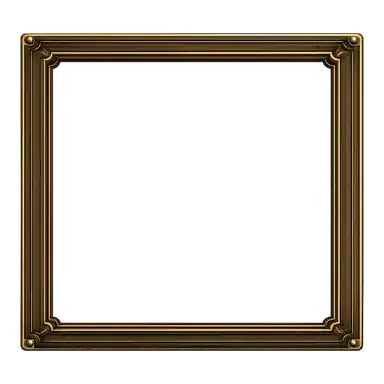
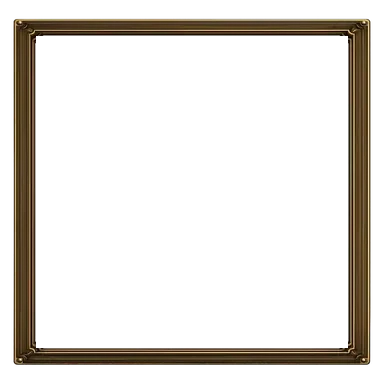
Refine premium Checkers board fit

diff --git a/public/checkers-premium.css b/public/checkers-premium.css
@@ -1,1 +1,1 @@
-:root{--checkers-brass:#d8aa53;--checkers-brass-bright:#ffd889;--checkers-ink:#080a0d;--checkers-panel:rgba(13,15,18,0.96);--checkers-panel-soft:rgba(22,24,28,0.9);--checkers-copy:#f2e8d3;--checkers-muted:#b8aa91;--checkers-red-accent:#d94b3f;--checkers-green-accent:#78c769}body.checkers-premium-active{background:radial-gradient(circle at 50% -20%,rgba(143,100,38,0.28),transparent 38rem),radial-gradient(circle at 18% 28%,rgba(105,29,24,0.18),transparent 32rem),linear-gradient(180deg,#111318 0%,#080a0d 62%,#050607 100%)}body.checkers-premium-active::before{opacity:0.18;background-image:linear-gradient(rgba(255,228,174,0.025) 1px,transparent 1px),linear-gradient(90deg,rgba(255,228,174,0.025) 1px,transparent 1px);background-size:36px 36px}.checkers-premium-active .shell{width:min(1480px,calc(100% - 24px));padding:22px 0 42px}.checkers-premium-active .hero{display:none}.checkers-premium-match.panel{padding:clamp(16px,2.4vw,28px);border-color:rgba(216,170,83,0.32);border-radius:18px;background:linear-gradient(135deg,rgba(31,26,20,0.72),transparent 32%),var(--checkers-panel);box-shadow:0 32px 90px rgba(0,0,0,0.52),inset 0 1px rgba(255,235,194,0.04);backdrop-filter:blur(18px)}.checkers-premium-match .match-header{padding-bottom:14px;border-bottom:1px solid rgba(216,170,83,0.22)}.checkers-premium-match .match-header h2,.checkers-board-title,.checkers-intel-card h3,.checkers-outcome-card h3{font-family:Georgia,"Times New Roman",serif;color:var(--checkers-copy);letter-spacing:-0.025em}.checkers-premium-match .section-label{color:var(--checkers-brass)}.checkers-premium-match .revision{border-color:rgba(216,170,83,0.34);color:var(--checkers-muted);background:rgba(8,10,13,0.66)}.checkers-premium-match .status{min-height:44px;margin:14px 0 18px;border:1px solid rgba(216,170,83,0.2);background:linear-gradient(90deg,rgba(216,170,83,0.13),transparent 72%),rgba(15,17,20,0.86);color:var(--checkers-copy)}.checkers-premium-match .game-layout{grid-template-columns:minmax(190px,230px) minmax(480px,1fr) minmax(210px,270px);gap:clamp(14px,2vw,24px);align-items:stretch}.checkers-premium-match .players{align-content:start;gap:12px}.checkers-premium-match .player-card{position:relative;display:grid;grid-template-columns:42px minmax(0,1fr);gap:12px;min-height:112px;padding:14px;overflow:hidden;border-color:rgba(216,170,83,0.26);border-radius:12px;background:linear-gradient(145deg,rgba(37,35,31,0.92),rgba(12,14,17,0.96));box-shadow:inset 0 1px rgba(255,239,202,0.035);transform:none}.checkers-premium-match .player-card::after{content:"";position:absolute;inset:0;pointer-events:none;border:1px solid transparent;border-radius:inherit}.checkers-premium-match .player-card.is-active{border-color:rgba(255,216,137,0.7);background:linear-gradient(145deg,rgba(61,47,28,0.86),rgba(14,16,19,0.97));box-shadow:0 14px 34px rgba(0,0,0,0.35),inset 0 0 0 1px rgba(255,216,137,0.14)}.checkers-premium-match #player-x.is-active::after{border-left:3px solid var(--checkers-green-accent)}.checkers-premium-match #player-o.is-active::after{border-left:3px solid var(--checkers-red-accent)}.checkers-premium-match .player-card small,.checkers-premium-match .match-meta dt{color:var(--checkers-muted)}.checkers-premium-match .player-card strong{color:var(--checkers-copy)}.checkers-premium-match .mark-badge.black,.checkers-premium-match .mark-badge.red{width:42px;height:42px;border:0;border-radius:50%;color:transparent;background:center / contain no-repeat;filter:drop-shadow(0 5px 6px rgba(0,0,0,0.46))}.checkers-premium-match .mark-badge.black{background-image:url("/assets/checkers/checkers-atlas.webp");background-size:400% 200%;background-position:33.333% 0%}.checkers-premium-match .mark-badge.red{background-image:url("/assets/checkers/checkers-atlas.webp");background-size:400% 200%;background-position:0% 0%}.checkers-premium-match .match-meta{border-top-color:rgba(216,170,83,0.2)}.checkers-premium-match .match-meta dd{color:#e6dcc8}.checkers-captured-summary{grid-column:1 / -1;display:grid;grid-template-columns:auto minmax(0,1fr) auto;align-items:center;gap:8px;margin-top:4px;padding-top:10px;border-top:1px solid rgba(216,170,83,0.18)}.checkers-captured-label{color:var(--checkers-muted);font-size:0.64rem;font-weight:800;letter-spacing:0.12em;text-transform:uppercase}.checkers-captured-pieces{display:flex;align-items:center;min-width:0}.checkers-captured-token{width:22px;height:22px;margin-left:-5px;border-radius:50%;background:center / contain no-repeat;filter:drop-shadow(0 3px 3px rgba(0,0,0,0.42))}.checkers-captured-token:first-child{margin-left:0}.checkers-captured-token-red{background-image:url("/assets/checkers/checkers-atlas.webp");background-size:400% 200%;background-position:0% 0%}.checkers-captured-token-black{background-image:url("/assets/checkers/checkers-atlas.webp");background-size:400% 200%;background-position:33.333% 0%}.checkers-captured-overflow,.checkers-captured-count{color:var(--checkers-brass-bright);font-size:0.72rem;font-style:normal}.checkers-board-heading{display:flex;justify-content:space-between;align-items:baseline;gap:16px;margin:0 2px 10px}.checkers-board-title{font-size:clamp(1.1rem,2vw,1.35rem);font-weight:700}.checkers-board-state{overflow:hidden;color:var(--checkers-muted);font-size:0.72rem;text-overflow:ellipsis;white-space:nowrap}.checkers-premium-match .board-wrap{width:min(100%,820px);padding:12px;border:1px solid rgba(216,170,83,0.22);border-radius:14px;background:radial-gradient(circle at 50% 30%,rgba(104,75,34,0.16),transparent 50%),rgba(7,9,11,0.96);box-shadow:0 24px 64px rgba(0,0,0,0.5)}.checkers-board-shell{position:relative;z-index:0;display:grid;place-items:center;width:100%;aspect-ratio:1;padding:8.25%;isolation:isolate}.checkers-board-shell::before{content:"";position:absolute;inset:0;z-index:3;pointer-events:none;background:url("/assets/checkers/board-frame.webp") center / 100% 100% no-repeat;filter:drop-shadow(0 14px 18px rgba(0,0,0,0.48))}.checkers-premium-match .board-checkers{position:relative;z-index:1;width:100%;border:0;border-radius:2px;background:url("/assets/checkers/board-surface.webp") center / 100% 100% no-repeat;box-shadow:inset 0 0 0 1px rgba(24,13,7,0.92),inset 0 0 22px rgba(0,0,0,0.28)}.checkers-premium-match .checkers-cell{padding:8%;overflow:visible;background:transparent;transition:filter 120ms ease,transform 120ms ease}.checkers-premium-match .checkers-cell.light-square,.checkers-premium-match .checkers-cell.dark-square,.checkers-premium-match .checkers-cell.legal-destination{background:transparent}.checkers-premium-match .checkers-cell.selectable-piece{box-shadow:inset 0 0 0 2px rgba(118,207,206,0.48)}.checkers-premium-match .checkers-cell.selectable-piece:hover,.checkers-premium-match .checkers-cell.selectable-piece:focus-visible{z-index:4;filter:brightness(1.08)}.checkers-premium-match .checkers-piece{position:relative;z-index:2;width:92%;border:0;color:transparent;background:center / contain no-repeat;box-shadow:none;filter:drop-shadow(0 6px 5px rgba(0,0,0,0.48))}.checkers-premium-match .piece-black{background-image:url("/assets/checkers/checkers-atlas.webp");background-size:400% 200%;background-position:33.333% 0%}.checkers-premium-match .piece-red{background-image:url("/assets/checkers/checkers-atlas.webp");background-size:400% 200%;background-position:0% 0%}.checkers-premium-match .piece-black.is-king{background-image:url("/assets/checkers/checkers-atlas.webp");background-size:400% 200%;background-position:100% 0%}.checkers-premium-match .piece-red.is-king{background-image:url("/assets/checkers/checkers-atlas.webp");background-size:400% 200%;background-position:66.667% 0%}.checkers-premium-match .checkers-piece.is-king{border:0;box-shadow:none}.checkers-premium-match .checkers-cell.selected-piece,.checkers-premium-match .checkers-cell.selected-path{box-shadow:none}.checkers-premium-match .checkers-cell.selected-piece::before{content:"";position:absolute;inset:1%;z-index:1;pointer-events:none;background-image:url("/assets/checkers/checkers-atlas.webp");background-size:400% 200%;background-position:0% 100%;background-repeat:no-repeat;animation:checkers-selection-pulse 1.25s ease-in-out infinite alternate}.checkers-premium-match .checkers-cell.legal-destination::after{content:"";position:absolute;inset:5%;z-index:1;width:auto;border-radius:0;background-image:url("/assets/checkers/checkers-atlas.webp");background-size:400% 200%;background-position:33.333% 100%;background-repeat:no-repeat;box-shadow:none;animation:checkers-destination-pulse 1.1s ease-in-out infinite alternate}.checkers-premium-match .checkers-cell.selected-path:not(.legal-destination)::after{content:"";position:absolute;inset:26%;z-index:4;pointer-events:none;border-radius:50%;background:radial-gradient(circle,#fff4c7 0 34%,#e5b95e 36% 55%,transparent 58%);filter:drop-shadow(0 0 6px rgba(255,216,137,0.7))}.checkers-premium-match .board-help{margin:8px 6px 0;color:var(--checkers-muted);text-align:center}.checkers-intel-rail{display:grid;align-content:start;gap:12px;min-width:0}.checkers-intel-rail[hidden]{display:none}.checkers-intel-card{position:relative;overflow:hidden;padding:14px;border:1px solid rgba(216,170,83,0.23);border-radius:12px;background:linear-gradient(145deg,rgba(38,34,28,0.72),rgba(12,14,17,0.96));box-shadow:inset 0 1px rgba(255,237,197,0.035)}.checkers-intel-card::before{content:"";position:absolute;inset:0;pointer-events:none;background:linear-gradient(120deg,rgba(255,216,137,0.04),transparent 32%)}.checkers-intel-kicker{margin:0 0 6px;color:var(--checkers-brass);font-size:0.64rem;font-weight:850;letter-spacing:0.15em}.checkers-intel-card h3{margin:0;font-size:1.08rem}.checkers-turn-copy{margin:10px 0 0;color:var(--checkers-copy);font-size:0.82rem;line-height:1.5}.checkers-count-grid{display:grid;grid-template-columns:1fr 1fr;gap:8px}.checkers-count-grid>div{display:grid;grid-template-columns:auto 1fr;align-items:center;gap:3px 7px;padding:10px;border:1px solid rgba(216,170,83,0.13);border-radius:9px;background:rgba(4,6,8,0.45)}.checkers-count-dot{grid-row:1 / 3;width:22px;height:22px;border-radius:50%;background:center / contain no-repeat}.checkers-count-dot.black{background-image:url("/assets/checkers/checkers-atlas.webp");background-size:400% 200%;background-position:33.333% 0%}.checkers-count-dot.red{background-image:url("/assets/checkers/checkers-atlas.webp");background-size:400% 200%;background-position:0% 0%}.checkers-count-grid small,.checkers-move-card span,.checkers-revision-card span{color:var(--checkers-muted);font-size:0.68rem;font-weight:750;letter-spacing:0.08em;text-transform:uppercase}.checkers-count-grid strong,.checkers-move-card strong,.checkers-revision-card strong{color:var(--checkers-copy);font-size:1.4rem}.checkers-count-grid em{grid-column:2;color:var(--checkers-muted);font-size:0.65rem;font-style:normal}.checkers-move-card,.checkers-revision-card{display:grid;gap:6px}.checkers-move-card small,.checkers-revision-card small{color:var(--checkers-muted);font-size:0.7rem;line-height:1.45}.checkers-route-swatch{display:flex;align-items:center;justify-content:space-between;width:100%;height:34px;padding:0 8%;margin-top:2px;opacity:0.28;transition:opacity 160ms ease,filter 160ms ease}.checkers-route-swatch i{width:9px;aspect-ratio:1;border-radius:50%;background:#f8e8b4;box-shadow:0 0 9px rgba(255,216,137,0.55)}.checkers-route-swatch i:nth-child(2),.checkers-route-swatch i:nth-child(4){transform:translateY(-5px)}.checkers-route-swatch i:nth-child(3){transform:translateY(-8px)}.checkers-intel-rail.has-route .checkers-route-swatch{opacity:0.9;filter:drop-shadow(0 0 8px rgba(255,216,137,0.35))}.checkers-premium-match .invite-panel,.checkers-premium-match .diagnostics{border-color:rgba(216,170,83,0.2);background:rgba(10,12,15,0.78)}.checkers-premium-match .actions{justify-content:flex-end}.checkers-premium-match .secondary-button,.checkers-outcome-actions button{border-color:rgba(216,170,83,0.38);color:var(--checkers-copy);background:linear-gradient(145deg,rgba(65,49,29,0.92),rgba(25,22,18,0.96))}.checkers-outcome-overlay{position:absolute;inset:12px;z-index:20;display:grid;place-items:center;padding:18px;border-radius:12px;background:rgba(5,7,9,0.78);backdrop-filter:blur(8px)}.checkers-outcome-overlay[hidden]{display:none}.checkers-outcome-card{width:min(92%,420px);padding:clamp(24px,4vw,36px);border:1px solid rgba(216,170,83,0.55);border-radius:16px;text-align:center;background:radial-gradient(circle at 50% 0%,rgba(216,170,83,0.2),transparent 70%),rgba(12,14,17,0.98);box-shadow:0 24px 70px rgba(0,0,0,0.62)}.checkers-outcome-kicker{margin:0 0 8px;color:var(--checkers-brass);font-size:0.66rem;font-weight:850;letter-spacing:0.16em}.checkers-outcome-card h3{margin:0;font-size:clamp(2rem,7vw,3.5rem)}.checkers-outcome-card>p:not(.checkers-outcome-kicker){margin:12px auto 0;color:var(--checkers-muted);line-height:1.5}.checkers-outcome-actions{display:grid;grid-template-columns:1fr 1fr;gap:10px;margin-top:22px}.checkers-outcome-actions button{min-height:46px;border-radius:10px;cursor:pointer;font-weight:800}@keyframes checkers-selection-pulse{from{opacity:0.72;transform:scale(0.96)}to{opacity:1;transform:scale(1.04)}}@keyframes checkers-destination-pulse{from{opacity:0.62;transform:scale(0.94)}to{opacity:1;transform:scale(1)}}@media (max-width:1120px){.checkers-premium-match .game-layout{grid-template-columns:minmax(180px,220px) minmax(0,1fr)}.checkers-intel-rail{grid-column:1 / -1;grid-template-columns:repeat(4,minmax(0,1fr))}}@media (max-width:760px){.checkers-premium-active .shell{width:min(100% - 12px,760px);padding-top:6px}.checkers-premium-match.panel{padding:10px;border-radius:12px}.checkers-premium-match .game-layout{grid-template-columns:1fr}.checkers-premium-match .players{grid-template-columns:1fr 1fr}.checkers-premium-match .match-meta{grid-column:1 / -1;display:none}.checkers-premium-match .player-card{min-height:96px;padding:10px}.checkers-captured-summary{grid-template-columns:auto 1fr}.checkers-captured-count{display:none}.checkers-premium-match .board-wrap{padding:6px}.checkers-board-heading{display:none}.checkers-intel-rail{grid-template-columns:1fr 1fr}.checkers-intel-identity,.checkers-revision-card{display:none}}@media (max-width:460px){.checkers-premium-match .match-header{align-items:flex-start}.checkers-premium-match .revision{display:none}.checkers-premium-match .status{font-size:0.78rem}.checkers-premium-match .player-card{grid-template-columns:34px minmax(0,1fr);gap:8px}.checkers-premium-match .mark-badge.black,.checkers-premium-match .mark-badge.red{width:34px;height:34px}.checkers-captured-summary{display:none}.checkers-board-shell{padding:8.5%}.checkers-intel-rail{grid-template-columns:1fr}.checkers-count-grid{grid-template-columns:1fr 1fr}.checkers-outcome-actions{grid-template-columns:1fr}}@media (prefers-reduced-motion:reduce){.checkers-premium-match .checkers-cell.selected-piece::before,.checkers-premium-match .checkers-cell.legal-destination::after{animation:none}}
+:root{--checkers-brass:#d8aa53;--checkers-brass-bright:#ffd889;--checkers-ink:#080a0d;--checkers-panel:rgba(13,15,18,0.96);--checkers-panel-soft:rgba(22,24,28,0.9);--checkers-copy:#f2e8d3;--checkers-muted:#b8aa91;--checkers-red-accent:#d94b3f;--checkers-green-accent:#78c769}body.checkers-premium-active{background:radial-gradient(circle at 50% -20%,rgba(143,100,38,0.28),transparent 38rem),radial-gradient(circle at 18% 28%,rgba(105,29,24,0.18),transparent 32rem),linear-gradient(180deg,#111318 0%,#080a0d 62%,#050607 100%)}body.checkers-premium-active::before{opacity:0.18;background-image:linear-gradient(rgba(255,228,174,0.025) 1px,transparent 1px),linear-gradient(90deg,rgba(255,228,174,0.025) 1px,transparent 1px);background-size:36px 36px}.checkers-premium-active .shell{width:min(1480px,calc(100% - 24px));padding:22px 0 42px}.checkers-premium-active .hero{display:none}.checkers-premium-match.panel{padding:clamp(16px,2.4vw,28px);border-color:rgba(216,170,83,0.32);border-radius:18px;background:linear-gradient(135deg,rgba(31,26,20,0.72),transparent 32%),var(--checkers-panel);box-shadow:0 32px 90px rgba(0,0,0,0.52),inset 0 1px rgba(255,235,194,0.04);backdrop-filter:blur(18px)}.checkers-premium-match .match-header{padding-bottom:14px;border-bottom:1px solid rgba(216,170,83,0.22)}.checkers-premium-match .match-header h2,.checkers-board-title,.checkers-intel-card h3,.checkers-outcome-card h3{font-family:Georgia,"Times New Roman",serif;color:var(--checkers-copy);letter-spacing:-0.025em}.checkers-premium-match .section-label{color:var(--checkers-brass)}.checkers-premium-match .revision{border-color:rgba(216,170,83,0.34);color:var(--checkers-muted);background:rgba(8,10,13,0.66)}.checkers-premium-match .status{min-height:44px;margin:14px 0 18px;border:1px solid rgba(216,170,83,0.2);background:linear-gradient(90deg,rgba(216,170,83,0.13),transparent 72%),rgba(15,17,20,0.86);color:var(--checkers-copy)}.checkers-premium-match .game-layout{grid-template-columns:minmax(190px,230px) minmax(480px,1fr) minmax(210px,270px);gap:clamp(14px,2vw,24px);align-items:stretch}.checkers-premium-match .players{align-content:start;gap:12px}.checkers-premium-match .player-card{position:relative;display:grid;grid-template-columns:42px minmax(0,1fr);gap:12px;min-height:112px;padding:14px;overflow:hidden;border-color:rgba(216,170,83,0.26);border-radius:12px;background:linear-gradient(145deg,rgba(37,35,31,0.92),rgba(12,14,17,0.96));box-shadow:inset 0 1px rgba(255,239,202,0.035);transform:none}.checkers-premium-match .player-card::after{content:"";position:absolute;inset:0;pointer-events:none;border:1px solid transparent;border-radius:inherit}.checkers-premium-match .player-card.is-active{border-color:rgba(255,216,137,0.7);background:linear-gradient(145deg,rgba(61,47,28,0.86),rgba(14,16,19,0.97));box-shadow:0 14px 34px rgba(0,0,0,0.35),inset 0 0 0 1px rgba(255,216,137,0.14)}.checkers-premium-match #player-x.is-active::after{border-left:3px solid var(--checkers-green-accent)}.checkers-premium-match #player-o.is-active::after{border-left:3px solid var(--checkers-red-accent)}.checkers-premium-match .player-card small,.checkers-premium-match .match-meta dt{color:var(--checkers-muted)}.checkers-premium-match .player-card strong{color:var(--checkers-copy)}.checkers-premium-match .mark-badge.black,.checkers-premium-match .mark-badge.red{width:42px;height:42px;border:0;border-radius:50%;color:transparent;background:center / contain no-repeat;filter:drop-shadow(0 5px 6px rgba(0,0,0,0.46))}.checkers-premium-match .mark-badge.black{background-image:url("/assets/checkers/checkers-atlas.webp");background-size:400% 200%;background-position:33.333% 0%}.checkers-premium-match .mark-badge.red{background-image:url("/assets/checkers/checkers-atlas.webp");background-size:400% 200%;background-position:0% 0%}.checkers-premium-match .match-meta{border-top-color:rgba(216,170,83,0.2)}.checkers-premium-match .match-meta dd{color:#e6dcc8}.checkers-captured-summary{grid-column:1 / -1;display:grid;grid-template-columns:auto minmax(0,1fr) auto;align-items:center;gap:8px;margin-top:4px;padding-top:10px;border-top:1px solid rgba(216,170,83,0.18)}.checkers-captured-label{color:var(--checkers-muted);font-size:0.64rem;font-weight:800;letter-spacing:0.12em;text-transform:uppercase}.checkers-captured-pieces{display:flex;align-items:center;min-width:0}.checkers-captured-token{width:22px;height:22px;margin-left:-5px;border-radius:50%;background:center / contain no-repeat;filter:drop-shadow(0 3px 3px rgba(0,0,0,0.42))}.checkers-captured-token:first-child{margin-left:0}.checkers-captured-token-red{background-image:url("/assets/checkers/checkers-atlas.webp");background-size:400% 200%;background-position:0% 0%}.checkers-captured-token-black{background-image:url("/assets/checkers/checkers-atlas.webp");background-size:400% 200%;background-position:33.333% 0%}.checkers-captured-overflow,.checkers-captured-count{color:var(--checkers-brass-bright);font-size:0.72rem;font-style:normal}.checkers-board-heading{display:flex;justify-content:space-between;align-items:baseline;gap:16px;margin:0 2px 10px}.checkers-board-title{font-size:clamp(1.1rem,2vw,1.35rem);font-weight:700}.checkers-board-state{overflow:hidden;color:var(--checkers-muted);font-size:0.72rem;text-overflow:ellipsis;white-space:nowrap}.checkers-premium-match .board-wrap{width:min(100%,820px);padding:12px;border:1px solid rgba(216,170,83,0.22);border-radius:14px;background:radial-gradient(circle at 50% 30%,rgba(104,75,34,0.16),transparent 50%),rgba(7,9,11,0.96);box-shadow:0 24px 64px rgba(0,0,0,0.5)}.checkers-board-shell{position:relative;z-index:0;display:grid;place-items:center;width:100%;aspect-ratio:1;padding:9.5%;isolation:isolate}.checkers-board-shell::before{content:"";position:absolute;inset:0;z-index:3;pointer-events:none;background:url("/assets/checkers/board-frame.webp") center / 100% 100% no-repeat;filter:drop-shadow(0 14px 18px rgba(0,0,0,0.48))}.checkers-premium-match .board-checkers{position:relative;z-index:1;width:100%;border:0;border-radius:2px;background:url("/assets/checkers/board-surface.webp") center / 100% 100% no-repeat;box-shadow:inset 0 0 0 1px rgba(24,13,7,0.92),inset 0 0 22px rgba(0,0,0,0.28)}.checkers-premium-match .checkers-cell{padding:8%;overflow:visible;background:transparent;transition:filter 120ms ease,transform 120ms ease}.checkers-premium-match .checkers-cell.light-square,.checkers-premium-match .checkers-cell.dark-square,.checkers-premium-match .checkers-cell.legal-destination{background:transparent}.checkers-premium-match .checkers-cell.selectable-piece{box-shadow:inset 0 0 0 2px rgba(118,207,206,0.48)}.checkers-premium-match .checkers-cell.selectable-piece:hover,.checkers-premium-match .checkers-cell.selectable-piece:focus-visible{z-index:4;filter:brightness(1.08)}.checkers-premium-match .checkers-piece{position:relative;z-index:2;width:84%;border:0;color:transparent;background:center / contain no-repeat;box-shadow:none;filter:drop-shadow(0 6px 5px rgba(0,0,0,0.48))}.checkers-premium-match .piece-black{background-image:url("/assets/checkers/checkers-atlas.webp");background-size:400% 200%;background-position:33.333% 0%}.checkers-premium-match .piece-red{background-image:url("/assets/checkers/checkers-atlas.webp");background-size:400% 200%;background-position:0% 0%}.checkers-premium-match .piece-black.is-king{background-image:url("/assets/checkers/checkers-atlas.webp");background-size:400% 200%;background-position:100% 0%}.checkers-premium-match .piece-red.is-king{background-image:url("/assets/checkers/checkers-atlas.webp");background-size:400% 200%;background-position:66.667% 0%}.checkers-premium-match .checkers-piece.is-king{border:0;box-shadow:none}.checkers-premium-match .checkers-cell.selected-piece,.checkers-premium-match .checkers-cell.selected-path{box-shadow:none}.checkers-premium-match .checkers-cell.selected-piece::before{content:"";position:absolute;inset:1%;z-index:1;pointer-events:none;background-image:url("/assets/checkers/checkers-atlas.webp");background-size:400% 200%;background-position:0% 100%;background-repeat:no-repeat;animation:checkers-selection-pulse 1.25s ease-in-out infinite alternate}.checkers-premium-match .checkers-cell.legal-destination::after{content:"";position:absolute;inset:5%;z-index:1;width:auto;border-radius:0;background-image:url("/assets/checkers/checkers-atlas.webp");background-size:400% 200%;background-position:33.333% 100%;background-repeat:no-repeat;box-shadow:none;animation:checkers-destination-pulse 1.1s ease-in-out infinite alternate}.checkers-premium-match .checkers-cell.selected-path:not(.legal-destination)::after{content:"";position:absolute;inset:26%;z-index:4;pointer-events:none;border-radius:50%;background:radial-gradient(circle,#fff4c7 0 34%,#e5b95e 36% 55%,transparent 58%);filter:drop-shadow(0 0 6px rgba(255,216,137,0.7))}.checkers-premium-match .board-help{margin:8px 6px 0;color:var(--checkers-muted);text-align:center}.checkers-intel-rail{display:grid;align-content:start;gap:12px;min-width:0}.checkers-intel-rail[hidden]{display:none}.checkers-intel-card{position:relative;overflow:hidden;padding:14px;border:1px solid rgba(216,170,83,0.23);border-radius:12px;background:linear-gradient(145deg,rgba(38,34,28,0.72),rgba(12,14,17,0.96));box-shadow:inset 0 1px rgba(255,237,197,0.035)}.checkers-intel-card::before{content:"";position:absolute;inset:0;pointer-events:none;background:linear-gradient(120deg,rgba(255,216,137,0.04),transparent 32%)}.checkers-intel-kicker{margin:0 0 6px;color:var(--checkers-brass);font-size:0.64rem;font-weight:850;letter-spacing:0.15em}.checkers-intel-card h3{margin:0;font-size:1.08rem}.checkers-turn-copy{margin:10px 0 0;color:var(--checkers-copy);font-size:0.82rem;line-height:1.5}.checkers-count-grid{display:grid;grid-template-columns:1fr 1fr;gap:8px}.checkers-count-grid>div{display:grid;grid-template-columns:auto 1fr;align-items:center;gap:3px 7px;padding:10px;border:1px solid rgba(216,170,83,0.13);border-radius:9px;background:rgba(4,6,8,0.45)}.checkers-count-dot{grid-row:1 / 3;width:22px;height:22px;border-radius:50%;background:center / contain no-repeat}.checkers-count-dot.black{background-image:url("/assets/checkers/checkers-atlas.webp");background-size:400% 200%;background-position:33.333% 0%}.checkers-count-dot.red{background-image:url("/assets/checkers/checkers-atlas.webp");background-size:400% 200%;background-position:0% 0%}.checkers-count-grid small,.checkers-move-card span,.checkers-revision-card span{color:var(--checkers-muted);font-size:0.68rem;font-weight:750;letter-spacing:0.08em;text-transform:uppercase}.checkers-count-grid strong,.checkers-move-card strong,.checkers-revision-card strong{color:var(--checkers-copy);font-size:1.4rem}.checkers-count-grid em{grid-column:2;color:var(--checkers-muted);font-size:0.65rem;font-style:normal}.checkers-move-card,.checkers-revision-card{display:grid;gap:6px}.checkers-move-card small,.checkers-revision-card small{color:var(--checkers-muted);font-size:0.7rem;line-height:1.45}.checkers-route-swatch{display:flex;align-items:center;justify-content:space-between;width:100%;height:34px;padding:0 8%;margin-top:2px;opacity:0.28;transition:opacity 160ms ease,filter 160ms ease}.checkers-route-swatch i{width:9px;aspect-ratio:1;border-radius:50%;background:#f8e8b4;box-shadow:0 0 9px rgba(255,216,137,0.55)}.checkers-route-swatch i:nth-child(2),.checkers-route-swatch i:nth-child(4){transform:translateY(-5px)}.checkers-route-swatch i:nth-child(3){transform:translateY(-8px)}.checkers-intel-rail.has-route .checkers-route-swatch{opacity:0.9;filter:drop-shadow(0 0 8px rgba(255,216,137,0.35))}.checkers-premium-match .invite-panel,.checkers-premium-match .diagnostics{border-color:rgba(216,170,83,0.2);background:rgba(10,12,15,0.78)}.checkers-premium-match .actions{justify-content:flex-end}.checkers-premium-match .secondary-button,.checkers-outcome-actions button{border-color:rgba(216,170,83,0.38);color:var(--checkers-copy);background:linear-gradient(145deg,rgba(65,49,29,0.92),rgba(25,22,18,0.96))}.checkers-outcome-overlay{position:absolute;inset:12px;z-index:20;display:grid;place-items:center;padding:18px;border-radius:12px;background:rgba(5,7,9,0.78);backdrop-filter:blur(8px)}.checkers-outcome-overlay[hidden]{display:none}.checkers-outcome-card{width:min(92%,420px);padding:clamp(24px,4vw,36px);border:1px solid rgba(216,170,83,0.55);border-radius:16px;text-align:center;background:radial-gradient(circle at 50% 0%,rgba(216,170,83,0.2),transparent 70%),rgba(12,14,17,0.98);box-shadow:0 24px 70px rgba(0,0,0,0.62)}.checkers-outcome-kicker{margin:0 0 8px;color:var(--checkers-brass);font-size:0.66rem;font-weight:850;letter-spacing:0.16em}.checkers-outcome-card h3{margin:0;font-size:clamp(2rem,7vw,3.5rem)}.checkers-outcome-card>p:not(.checkers-outcome-kicker){margin:12px auto 0;color:var(--checkers-muted);line-height:1.5}.checkers-outcome-actions{display:grid;grid-template-columns:1fr 1fr;gap:10px;margin-top:22px}.checkers-outcome-actions button{min-height:46px;border-radius:10px;cursor:pointer;font-weight:800}@keyframes checkers-selection-pulse{from{opacity:0.72;transform:scale(0.96)}to{opacity:1;transform:scale(1.04)}}@keyframes checkers-destination-pulse{from{opacity:0.62;transform:scale(0.94)}to{opacity:1;transform:scale(1)}}@media (max-width:1120px){.checkers-premium-match .game-layout{grid-template-columns:minmax(180px,220px) minmax(0,1fr)}.checkers-intel-rail{grid-column:1 / -1;grid-template-columns:repeat(4,minmax(0,1fr))}}@media (max-width:760px){.checkers-premium-active .shell{width:min(100% - 12px,760px);padding-top:6px}.checkers-premium-match.panel{padding:10px;border-radius:12px}.checkers-premium-match .game-layout{grid-template-columns:1fr}.checkers-premium-match .players{grid-template-columns:1fr 1fr}.checkers-premium-match .match-meta{grid-column:1 / -1;display:none}.checkers-premium-match .player-card{min-height:96px;padding:10px}.checkers-captured-summary{grid-template-columns:auto 1fr}.checkers-captured-count{display:none}.checkers-premium-match .board-wrap{padding:6px}.checkers-board-heading{display:none}.checkers-intel-rail{grid-template-columns:1fr 1fr}.checkers-intel-identity,.checkers-revision-card{display:none}}@media (max-width:460px){.checkers-premium-match .match-header{align-items:flex-start}.checkers-premium-match .revision{display:none}.checkers-premium-match .status{font-size:0.78rem}.checkers-premium-match .player-card{grid-template-columns:34px minmax(0,1fr);gap:8px}.checkers-premium-match .mark-badge.black,.checkers-premium-match .mark-badge.red{width:34px;height:34px}.checkers-captured-summary{display:none}.checkers-board-shell{padding:9.5%}.checkers-intel-rail{grid-template-columns:1fr}.checkers-count-grid{grid-template-columns:1fr 1fr}.checkers-outcome-actions{grid-template-columns:1fr}}@media (prefers-reduced-motion:reduce){.checkers-premium-match .checkers-cell.selected-piece::before,.checkers-premium-match .checkers-cell.legal-destination::after{animation:none}}
